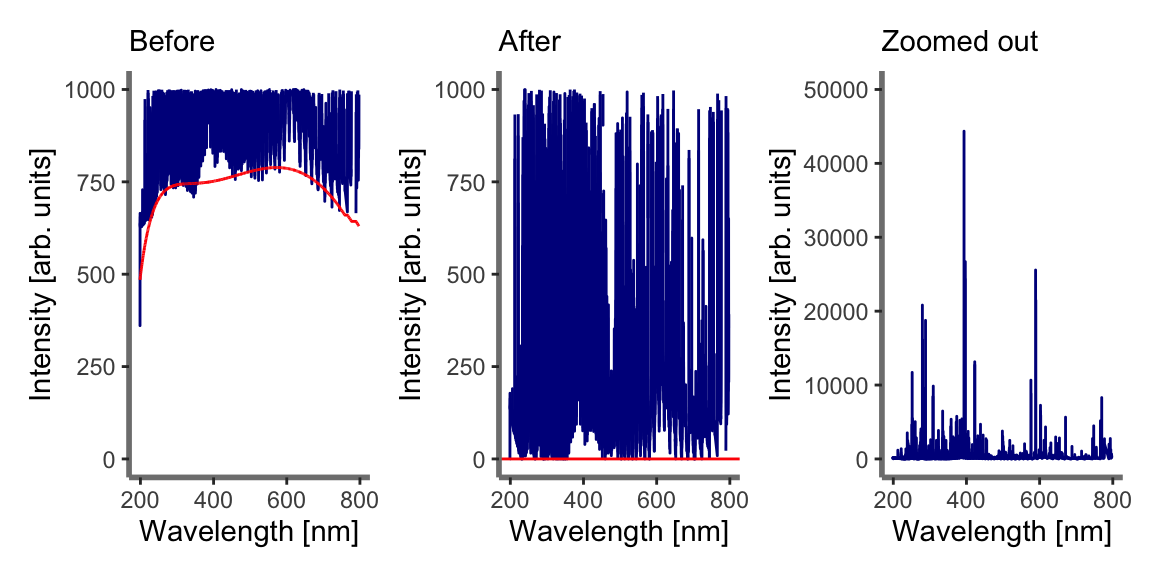
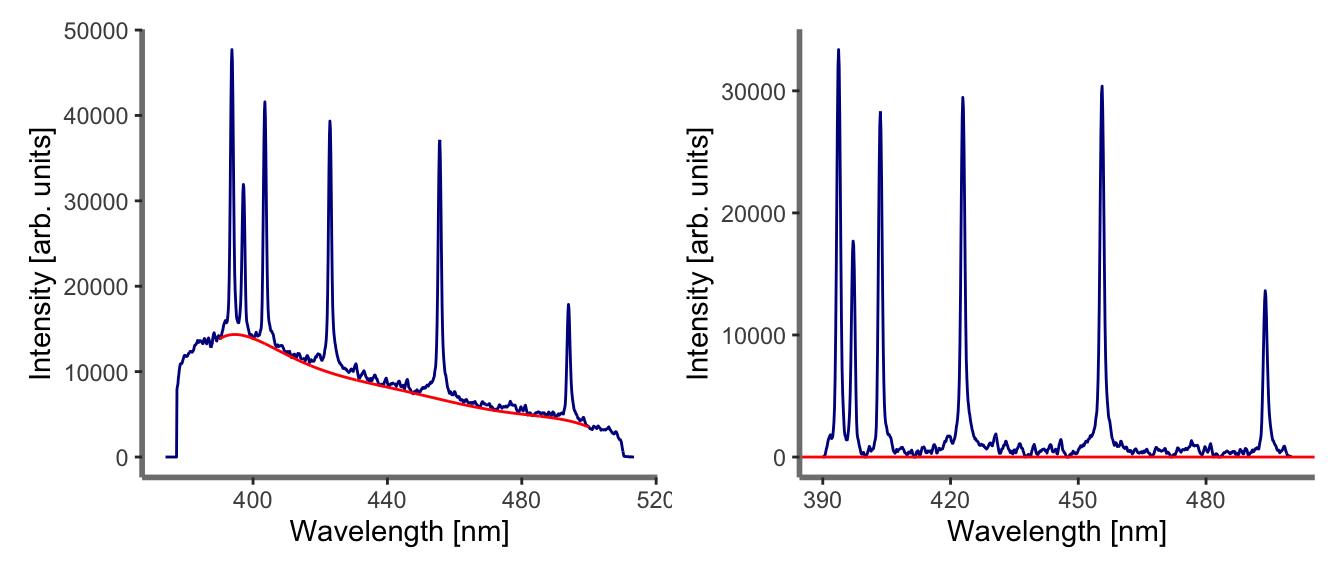
Updates

Changed region(s): [[0.0, 0.0312, 1.0, 0.9688], [0.75, 0.0625, 0.9062, 0.0938], [0.4375, 0.0312, 0.5, 0.0938]]

diff --git a/README.md b/README.md
@@ -54,7 +54,23 @@ spectrum show emission lines of Ca II 393.37 nm, Ca II 396.85 nm and Ca
 I 422.67 nm, unresolved Mn triplet at 403.08, 403.31 and 403.45 nm, and
 Ba ionic lines at 455.40 and 493.41 nm.
 
-<img src="man/figures/README-unnamed-chunk-7-1.png" width="90%" height="90%" />
+``` r
+data("Ca_Mn_spec")
+```
+
+``` r
+Ca_Mn_spec %>% 
+  plotSpec() + 
+  theme_classic(base_size = 8) +
+  annotate("text", x = 391, y = 4.2e4, angle = 90, size = 2, label = "Ca II 393.37 nm") +
+  annotate("text", x = 396, y = 3e4, angle = 90, size = 2, label = "Ca II 396.85 nm") +
+  annotate("text", x = 401, y = 3.8e4, angle = 90, size = 2, label = "Mn I 403-nm") +
+  annotate("text", x = 420, y = 3.5e4, angle = 90, size = 2, label = "Ca I 422.67 nm") +
+  annotate("text", x = 453, y = 3e4, angle = 90, size = 2, label = "Ba II 455.40 nm") +
+  annotate("text", x = 491, y = 1.5e4, angle = 90, size = 2, label = "Ba II 493.41 nm")
+```
+
+<img src="man/figures/README-unnamed-chunk-6-1.png" width="90%" height="90%" />
 
 ### Baseline removal
 
@@ -101,7 +117,22 @@ background <- baseline_fit %>% pluck("bkg")
 corrected_spec <- baseline_fit %>% pluck("spec")
 ```
 
-<img src="man/figures/README-unnamed-chunk-13-1.png" width="90%" height="90%" />
+``` r
+Ca_Mn_spec %>% 
+  plotSpec() + 
+  geom_line(
+    data = background %>% 
+      pivot_longer(cols = everything(), names_to = "wavelength", values_to = "intensity") %>%
+      modify_at("wavelength", as.numeric), 
+    aes(x = wavelength, y = intensity), 
+    colour = "red"
+    ) | 
+  corrected_spec %>% 
+  plotSpec() + 
+  geom_hline(yintercept = 0, colour = "red")
+```
+
+<img src="man/figures/README-unnamed-chunk-10-1.png" width="90%" height="90%" />
 
 ### Peak fitting
 
@@ -128,7 +159,8 @@ our initial guess and are respectively the Gaussian full width at half
 maximum (FWHM) and peak area. There are two ways to limit the wavelength
 range of data for a given fit. You can set the range of data of interest
 before using the `peakfit` function, or you can use the arguments
-`wlgth.min` and `wlgth.max` for setting up the wavelength range.
+`wlgth.min` and `wlgth.max` for setting up the wavelength range. Note
+that you can give a value to one or both of the arguments.
 
 ``` r
 Ba455_fit <- corrected_spec %>% 
@@ -183,19 +215,19 @@ Ba455_fit %>% pluck("tidied")
 #> 4 A     29869.    426.           70.1 2.15e-23
 ```
 
-Thus we can plot the obtained results, since a picture is worth a
-thousand words. Individual peaks, the overall fit and baseline are
-included on the plot. The residuals plot (at the bottom) is very handy
-in deciding whether the fit is good or whether there may be additional
-peaks lurking in the data. In the result shown below the residuals are
-just noise indicating a good fit.
+Thus, using the `plotFit` function, we can plot the obtained results,
+since a picture is worth a thousand words. Individual peaks, the overall
+fit and baseline are included on the plot. The residuals plot (at the
+bottom) is very handy in deciding whether the fit is good or whether
+there may be additional peaks lurking in the data. In the result shown
+below the residuals are just noise indicating a good fit.
 
 ``` r
 plotFit(data = Ba455_fit, title = "Ba II 455.40 nm") | 
   plotFit(data = Ca422_fit, title = "Ca I 422.67 nm")
 ```
 
-<img src="man/figures/README-unnamed-chunk-18-1.png" width="90%" height="90%" />
+<img src="man/figures/README-unnamed-chunk-15-1.png" width="90%" height="90%" />
 
 In fact, we should rather look at the Voigt profile, especially if we
 want to have an accurate measurement of the FWHM of the emission lines.
@@ -233,9 +265,11 @@ plotFit(data = Ba455_fit2, title = "Ba II 455.40 nm") |
   plotFit(data = Ca422_fit2, title = "Ca I 422.67 nm")
 ```
 
-<img src="man/figures/README-unnamed-chunk-22-1.png" width="90%" height="90%" />
+<img src="man/figures/README-unnamed-chunk-19-1.png" width="90%" height="90%" />
 
 ### Multi-peak fitting
 
 On the other hand, it may sometimes be more advisable to fit multiple
-peaks at the same time. Here, the `multipeakfit` function is used.
+peaks at the same time, especially when they overlap. Here, the
+`multipeakfit` function is used. You can fit all peaks with same fitting
+function or fit each peak with a different peak function.
